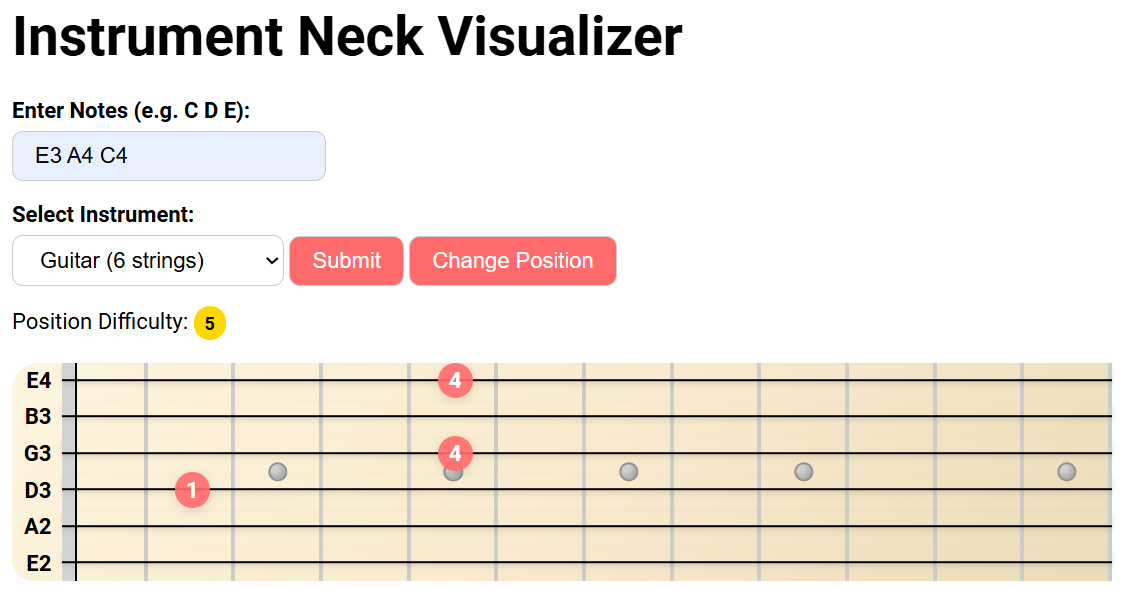
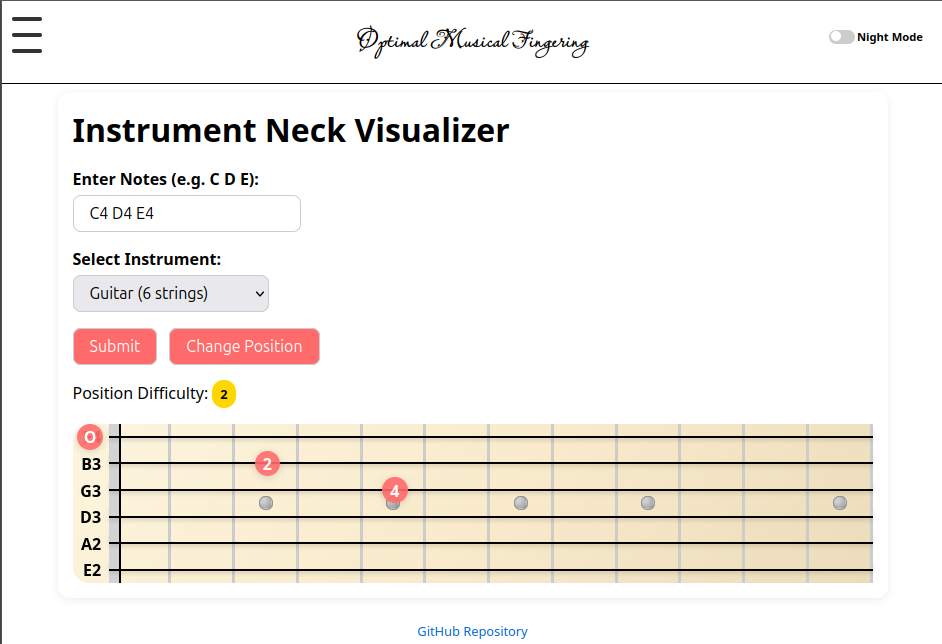
README update

diff --git a/README.md b/README.md
@@ -25,11 +25,17 @@ Whether you're practicing or composing, _Optimal Musical Fingering_ helps you pl
 - Chord diagrams display finger positions clearly on the neck, so you can learn and play faster.  
   ![Visualization](frontend/static/visualization.png)
 
+✅ **Full song fingering from MIDI file**
+
+- Input a complete song to receive optimized fingerings and transitions across the entire piece. 
+  ![Visualization](frontend/static/midiFingering.png)
+
 🔜 **Upcoming Features**
 
 - **Chord Transition Optimization**: Determine the smoothest transitions between chord fingerings based on finger movement and hand position.
 - **Personalized Instrument Profiles**: Customize the algorithm for different neck instruments, accounting for unique fretboard layouts and playing styles.
-- **Full Song Analysis**: Input a complete song to receive optimized fingerings and transitions across the entire piece. Output will include a fully playable, optimized tab or partiture.
+- **Tablature output**: Export optimized fingerings and transitions as tablature or sheet music for easy practice and performance.
+- **Flexible arrangement options**: Adjust the arrangement of chords and fingerings to suit pieces not written for the target instrument.
 
 ---
 
@@ -40,6 +46,9 @@ Implemented so far:
 
 - ✅ Best fingering suggestion for individual chords.
 - ✅ Visual switch between all possible fingerings with difficulty evaluation.
+- ✅ Full song fingering from MIDI file.
+- ✅ Basic web interface for easy interaction.
+- ✅ Backend API for chord fingering and MIDI processing.
 
 ---
 
